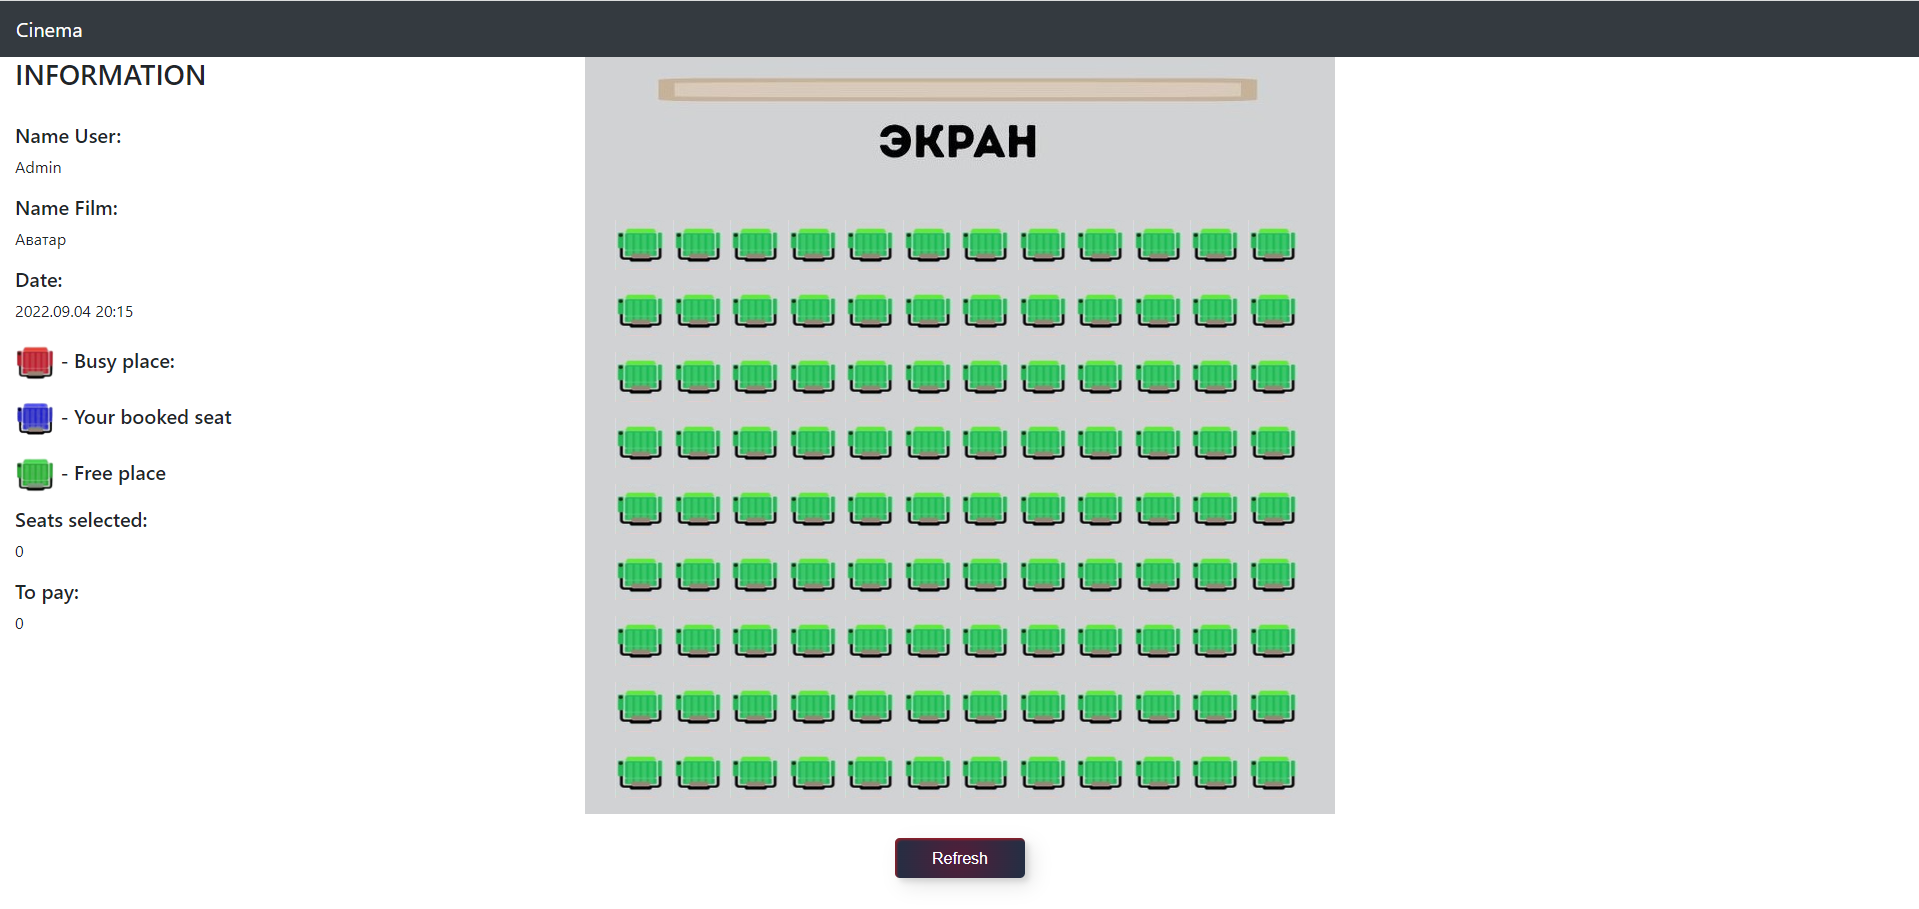
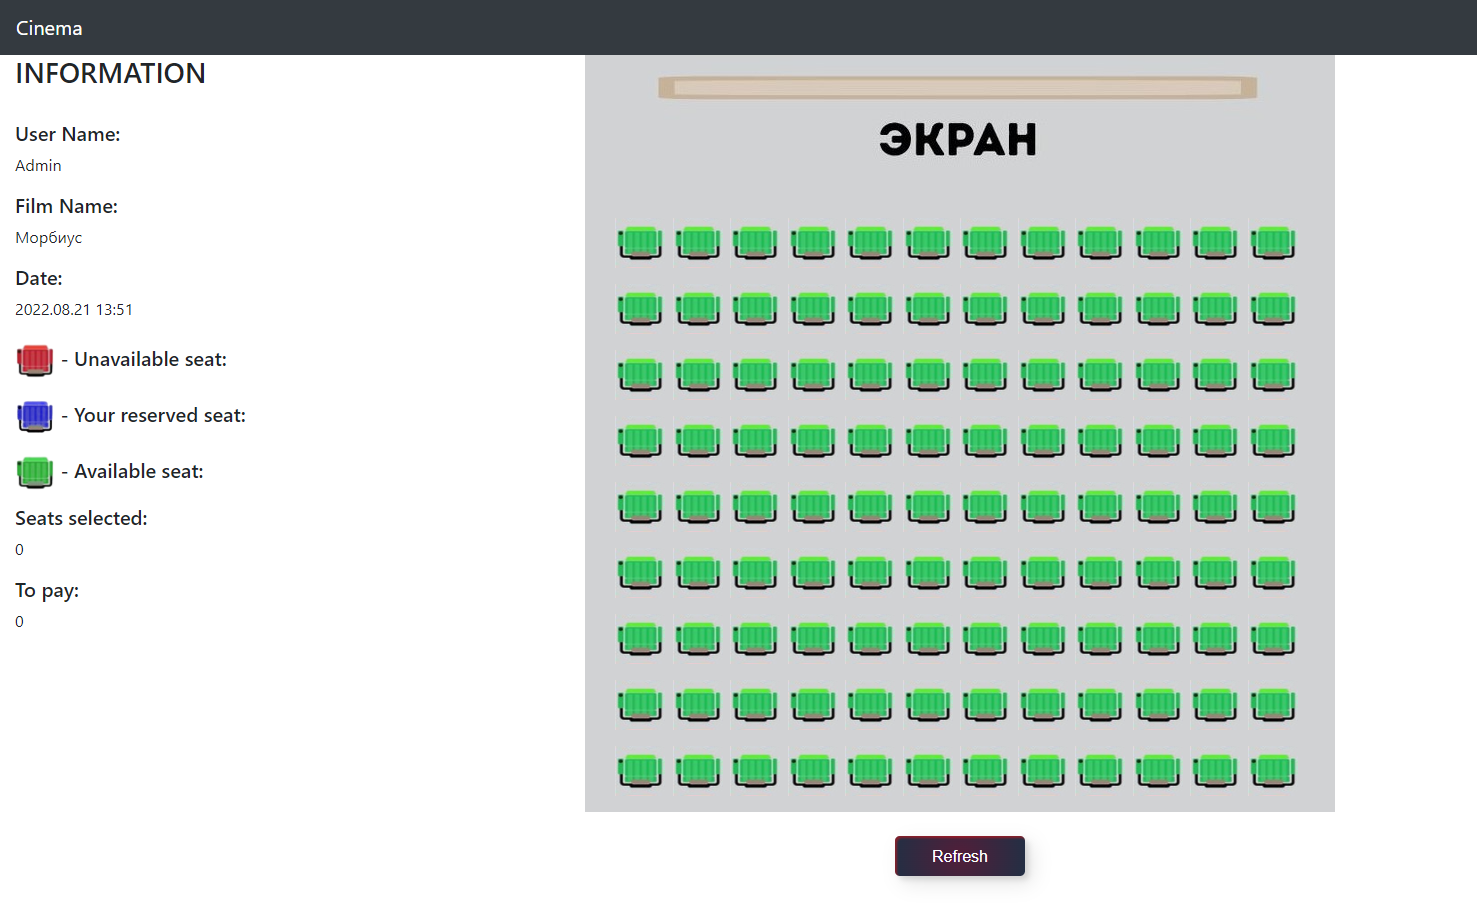
2. Сервис - Кинотеатр [#504869 #309229]

diff --git a/src/main/resources/templates/ticket.html b/src/main/resources/templates/ticket.html
@@ -177,15 +177,15 @@
     <div class="container">
         <div class="container-right">
             <h3>INFORMATION</h3><br>
-            <h5> Name User:</h5>
+            <h5>User Name:</h5>
             <p style="text-align: left" th:text="${user.name}"></p>
-            <h5> Name Film:</h5>
+            <h5> Film Name:</h5>
             <p style="text-align: left" th:text="${sess.get().name}"></p>
-            <h5> Date:</h5>
+            <h5>Date:</h5>
             <p style="text-align: left" th:text="${#temporals.format(sess.get().created, 'yyyy.MM.dd HH:mm')}"></p>
-            <h5><img th:src="'/'+red.png" th:width="40" th:high="40"/> - Busy place:</h5>
-            <h5><img th:src="'/'+blue.png" th:width="40" th:high="40"/> - Your booked seat</h5>
-            <h5><img th:src="'/'+grean.png" th:width="40" th:high="40"/> - Free place</h5>
+            <h5><img th:src="'/'+red.png" th:width="40" th:high="40"/> - Unavailable seat:</h5>
+            <h5><img th:src="'/'+blue.png" th:width="40" th:high="40"/> - Your reserved seat:</h5>
+            <h5><img th:src="'/'+grean.png" th:width="40" th:high="40"/> - Available seat:</h5>
             <h5>Seats selected:</h5>
             <p style="text-align: left" th:text="${count}"></p>
             <h5>To pay: </h5>
@@ -197,7 +197,7 @@
                     <a th:href="@{/successfulPurchase}">
                         <br>
                         <button type="button" class="custom-btn btn-6">
-                            Оплатить
+                            Buy
                         </button>
                     </a>
                 </p>

diff --git a/src/main/resources/templates/sessionName.html b/src/main/resources/templates/sessionName.html
@@ -184,10 +184,10 @@
         <br>
         <div class="main">
             <a th:if="${user.name == 'Гость'}" th:href="@{|/formRegistration/${sess.id}|}">
-                <button class="custom-btn btn-6"><span>To buy a ticket</span></button>
+                <button class="custom-btn btn-6"><span>Buy ticket</span></button>
             </a>
             <a th:if="${user.name != 'Гость'}" th:href="@{|/ticket/${sess.id}|}">
-                <button class="custom-btn btn-6"><span>To buy a ticket</span></button>
+                <button class="custom-btn btn-6"><span>Buy ticket</span></button>
             </a>
         </div>
     </div>

diff --git a/src/main/resources/templates/purchaseNotCompleted.html b/src/main/resources/templates/purchaseNotCompleted.html
@@ -30,7 +30,7 @@
     </button>
 </nav>
 <div class="alert alert-warning alert-dismissible fade show" role="alert">
-    Sorry, the seats are already taken. Choose other locations.
+    Sorry, the seats are already taken. Choose other seats.
     <button type="button" class="close" data-dismiss="alert" aria-label="Close">
         <span aria-hidden="true">×</span>
     </button>

diff --git a/src/main/resources/templates/updateSessions.html b/src/main/resources/templates/updateSessions.html
@@ -43,7 +43,7 @@
 <div class="container pt-3">
     <div class="card" style="width: 100%">
         <div class="card-header">
-            Film editing.
+            Film editing
         </div>
         <div class="card-body">
             <form th:action="@{/updateSessions}" method="POST" enctype="multipart/form-data"

diff --git a/src/main/java/ru/job4j/cinema/repository/TicketsRepository.java b/src/main/java/ru/job4j/cinema/repository/TicketsRepository.java
@@ -1,4 +1,4 @@
-package ru.job4j.cinema.jdbc;
+package ru.job4j.cinema.repository;
 
 import org.apache.commons.dbcp2.BasicDataSource;
 import org.slf4j.Logger;
@@ -26,10 +26,10 @@ public class TicketsRepository {
     public Optional<Ticket> create(Ticket tickets) {
         try (Connection cn = this.pool.getConnection();
              PreparedStatement ps = cn.prepareStatement(
-                     "INSERT INTO ticket(sessid, pos_row, cell, userid, date, condition, price)" +
-                             " VALUES (?, ?, ?, ?, ?, ?, ?)", Statement.RETURN_GENERATED_KEYS)) {
+                     "INSERT INTO ticket(sessid, posRow, cell, userid, date, condition, price)"
+                             + " VALUES (?, ?, ?, ?, ?, ?, ?)", Statement.RETURN_GENERATED_KEYS)) {
             ps.setInt(1, tickets.getSessId());
-            ps.setInt(2, tickets.getPos_row());
+            ps.setInt(2, tickets.getPosRow());
             ps.setInt(3, tickets.getCell());
             ps.setInt(4, tickets.getUserId());
             ps.setTimestamp(5, Timestamp.valueOf(tickets.getDate()));
@@ -66,19 +66,19 @@ public class TicketsRepository {
     private Ticket createTicketFromResultSe(ResultSet it) throws SQLException {
         int id = it.getInt("id");
         int sessId = it.getInt("sessId");
-        int pos_row = it.getInt("pos_row");
+        int posRow = it.getInt("posRow");
         int cell = it.getInt("cell");
         int userId = it.getInt("userId");
         LocalDateTime date = it.getTimestamp("date").toLocalDateTime();
         boolean condition = it.getBoolean("condition");
         double price = it.getDouble("price");
-        return new Ticket(id, sessId, pos_row, cell, userId, date, condition, price);
+        return new Ticket(id, sessId, posRow, cell, userId, date, condition, price);
     }
 
     public Optional<Ticket> findById(int row, int cell, int idSess, int idUser) {
         try (Connection cn = this.pool.getConnection();
              PreparedStatement ps = cn.prepareStatement(
-                     "SELECT * FROM ticket WHERE pos_row = ? and cell = ? and sessId = ? and userid = ?")) {
+                     "SELECT * FROM ticket WHERE posRow = ? and cell = ? and sessId = ? and userid = ?")) {
             ps.setInt(1, row);
             ps.setInt(2, cell);
             ps.setInt(3, idSess);

diff --git a/src/main/java/ru/job4j/cinema/model/Ticket.java b/src/main/java/ru/job4j/cinema/model/Ticket.java
@@ -7,17 +7,18 @@ public class Ticket {
 
     private int id;
     private int sessId;
-    private int pos_row;
+    private int posRow;
     private int cell;
     private int userId;
     private LocalDateTime date;
     private boolean condition;
     private double price;
 
-    public Ticket(int id, int sessId, int pos_row, int cell, int userId, LocalDateTime date, boolean condition, double price) {
+    @SuppressWarnings("checkstyle:parameternumber")
+    public Ticket(int id, int sessId, int posRow, int cell, int userId, LocalDateTime date, boolean condition, double price) {
         this.id = id;
         this.sessId = sessId;
-        this.pos_row = pos_row;
+        this.posRow = posRow;
         this.cell = cell;
         this.userId = userId;
         this.date = date;
@@ -41,12 +42,12 @@ public class Ticket {
         this.sessId = sessId;
     }
 
-    public int getPos_row() {
-        return pos_row;
+    public int getPosRow() {
+        return posRow;
     }
 
-    public void setPos_row(int pos_row) {
-        this.pos_row = pos_row;
+    public void setPosRow(int posRow) {
+        this.posRow = posRow;
     }
 
     public int getCell() {
@@ -91,8 +92,12 @@ public class Ticket {
 
     @Override
     public boolean equals(Object o) {
-        if (this == o) return true;
-        if (o == null || getClass() != o.getClass()) return false;
+        if (this == o) {
+            return true;
+        }
+        if (o == null || getClass() != o.getClass()) {
+            return false;
+        }
         Ticket ticket = (Ticket) o;
         return id == ticket.id;
     }

diff --git a/src/main/java/ru/job4j/cinema/repository/SessionsRepository.java b/src/main/java/ru/job4j/cinema/repository/SessionsRepository.java
@@ -1,4 +1,4 @@
-package ru.job4j.cinema.jdbc;
+package ru.job4j.cinema.repository;
 
 import org.apache.commons.dbcp2.BasicDataSource;
 import org.slf4j.Logger;
@@ -25,8 +25,8 @@ public class SessionsRepository {
 
     public Optional<Session> create(Session sessions) {
         try (Connection cn = this.pool.getConnection();
-             PreparedStatement ps = cn.prepareStatement("INSERT INTO sessions(name, text, created)" +
-                     " VALUES (?, ?, ?)", Statement.RETURN_GENERATED_KEYS)) {
+             PreparedStatement ps = cn.prepareStatement("INSERT INTO sessions(name, text, created)"
+                     + " VALUES (?, ?, ?)", Statement.RETURN_GENERATED_KEYS)) {
             ps.setString(1, sessions.getName());
             ps.setString(2, sessions.getText());
             ps.setTimestamp(3, Timestamp.valueOf(sessions.getCreated()));

diff --git a/src/main/java/ru/job4j/cinema/model/Session.java b/src/main/java/ru/job4j/cinema/model/Session.java
@@ -54,8 +54,12 @@ public class Session {
 
     @Override
     public boolean equals(Object o) {
-        if (this == o) return true;
-        if (o == null || getClass() != o.getClass()) return false;
+        if (this == o) {
+            return true;
+        }
+        if (o == null || getClass() != o.getClass()) {
+            return false;
+        }
         Session session = (Session) o;
         return id == session.id;
     }
@@ -63,15 +67,5 @@ public class Session {
     @Override
     public int hashCode() {
         return Objects.hash(id);
-    }
-
-    @Override
-    public String toString() {
-        return "Session{" +
-                "id=" + id +
-                ", name='" + name + '\'' +
-                ", text='" + text + '\'' +
-                ", created=" + created +
-                '}';
     }
 }

diff --git a/src/main/java/ru/job4j/cinema/model/User.java b/src/main/java/ru/job4j/cinema/model/User.java
@@ -62,8 +62,12 @@ public class User {
 
     @Override
     public boolean equals(Object o) {
-        if (this == o) return true;
-        if (o == null || getClass() != o.getClass()) return false;
+        if (this == o) {
+            return true;
+        }
+        if (o == null || getClass() != o.getClass()) {
+            return false;
+        }
         User user = (User) o;
         return id == user.id;
     }
@@ -71,15 +75,5 @@ public class User {
     @Override
     public int hashCode() {
         return Objects.hash(id);
-    }
-
-    @Override
-    public String toString() {
-        return "User{" +
-                "id=" + id +
-                ", name='" + name + '\'' +
-                ", email='" + email + '\'' +
-                ", numberPhone='" + numberPhone + '\'' +
-                '}';
     }
 }

diff --git a/src/main/java/ru/job4j/cinema/service/TicketService.java b/src/main/java/ru/job4j/cinema/service/TicketService.java
@@ -2,7 +2,7 @@ package ru.job4j.cinema.service;
 
 import net.jcip.annotations.ThreadSafe;
 import org.springframework.stereotype.Service;
-import ru.job4j.cinema.jdbc.TicketsRepository;
+import ru.job4j.cinema.repository.TicketsRepository;
 import ru.job4j.cinema.model.Ticket;
 
 import java.util.List;
@@ -37,7 +37,7 @@ public class TicketService {
         Ticket[] tickets = new Ticket[108];
         for (Ticket tick : res) {
             int cell = tick.getCell() - 1;
-            int row = (tick.getPos_row() - 1) * 12 + cell;
+            int row = (tick.getPosRow() - 1) * 12 + cell;
             tickets[row] = tick;
         }
         return tickets;

diff --git a/src/main/java/ru/job4j/cinema/service/SessionService.java b/src/main/java/ru/job4j/cinema/service/SessionService.java
@@ -2,7 +2,7 @@ package ru.job4j.cinema.service;
 
 import net.jcip.annotations.ThreadSafe;
 import org.springframework.stereotype.Service;
-import ru.job4j.cinema.jdbc.SessionsRepository;
+import ru.job4j.cinema.repository.SessionsRepository;
 import ru.job4j.cinema.model.Session;
 
 import java.util.List;

diff --git a/src/main/java/ru/job4j/cinema/controller/UserController.java b/src/main/java/ru/job4j/cinema/controller/UserController.java
@@ -85,7 +85,7 @@ public class UserController {
         User user = (User) session.getAttribute("user");
         if (user == null) {
             user = new User();
-            user.setName("Гость");
+            user.setName("Guest");
         }
         model.addAttribute("user", user);
     }
